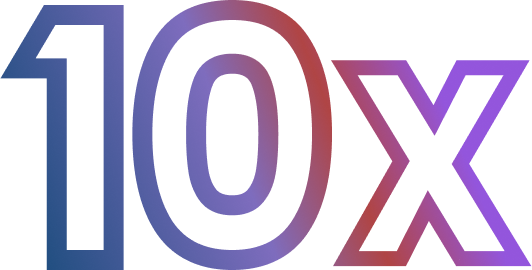
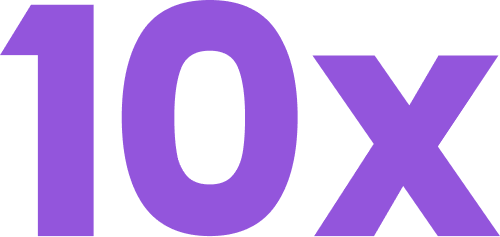
more branding

diff --git a/src/lib/components/TermsModal.svelte b/src/lib/components/TermsModal.svelte
@@ -1,0 +1,120 @@
+<script lang="ts">
+	import { onMount, getContext } from 'svelte';
+	import { Confetti } from 'svelte-confetti';
+
+	import { WEBUI_NAME, config, settings } from '$lib/stores';
+
+	import { WEBUI_VERSION } from '$lib/constants';
+	import { getChangelog } from '$lib/apis';
+
+	import Modal from './common/Modal.svelte';
+	import { updateUserSettings } from '$lib/apis/users';
+
+	const i18n = getContext('i18n');
+
+	export let show = false;
+
+	let changelog = null;
+
+	onMount(async () => {
+		const res = await getChangelog();
+		changelog = res;
+	});
+</script>
+
+<Modal bind:show>
+	<div class="px-5 pt-4 dark:text-gray-300 text-gray-700">
+		<div class="flex justify-between items-start">
+			<div class="text-xl font-semibold">
+				{$i18n.t('What’s New in')}
+				{$WEBUI_NAME}
+				<Confetti x={[-1, -0.25]} y={[0, 0.5]} />
+			</div>
+			<button
+				class="self-center"
+				on:click={() => {
+					localStorage.version = $config.version;
+					show = false;
+				}}
+			>
+				<svg
+					xmlns="http://www.w3.org/2000/svg"
+					viewBox="0 0 20 20"
+					fill="currentColor"
+					class="w-5 h-5"
+				>
+					<path
+						d="M6.28 5.22a.75.75 0 00-1.06 1.06L8.94 10l-3.72 3.72a.75.75 0 101.06 1.06L10 11.06l3.72 3.72a.75.75 0 101.06-1.06L11.06 10l3.72-3.72a.75.75 0 00-1.06-1.06L10 8.94 6.28 5.22z"
+					/>
+				</svg>
+			</button>
+		</div>
+		<div class="flex items-center mt-1">
+			<div class="text-sm dark:text-gray-200">{$i18n.t('Release Notes')}</div>
+			<div class="flex self-center w-[1px] h-6 mx-2.5 bg-gray-200 dark:bg-gray-700" />
+			<div class="text-sm dark:text-gray-200">
+				v{WEBUI_VERSION}
+			</div>
+		</div>
+	</div>
+
+	<div class=" w-full p-4 px-5 text-gray-700 dark:text-gray-100">
+		<div class=" overflow-y-scroll max-h-80 scrollbar-hidden">
+			<div class="mb-3">
+				{#if changelog}
+					{#each Object.keys(changelog) as version}
+						<div class=" mb-3 pr-2">
+							<div class="font-semibold text-xl mb-1 dark:text-white">
+								v{version} - {changelog[version].date}
+							</div>
+
+							<hr class=" dark:border-gray-800 my-2" />
+
+							{#each Object.keys(changelog[version]).filter((section) => section !== 'date') as section}
+								<div class="">
+									<div
+										class="font-semibold uppercase text-xs {section === 'added'
+											? 'text-white bg-blue-600'
+											: section === 'fixed'
+												? 'text-white bg-green-600'
+												: section === 'changed'
+													? 'text-white bg-yellow-600'
+													: section === 'removed'
+														? 'text-white bg-red-600'
+														: ''}  w-fit px-3 rounded-full my-2.5"
+									>
+										{section}
+									</div>
+
+									<div class="my-2.5 px-1.5">
+										{#each Object.keys(changelog[version][section]) as item}
+											<div class="text-sm mb-2">
+												<div class="font-semibold uppercase">
+													{changelog[version][section][item].title}
+												</div>
+												<div class="mb-2 mt-1">{changelog[version][section][item].content}</div>
+											</div>
+										{/each}
+									</div>
+								</div>
+							{/each}
+						</div>
+					{/each}
+				{/if}
+			</div>
+		</div>
+		<div class="flex justify-end pt-3 text-sm font-medium">
+			<button
+				on:click={async () => {
+					localStorage.version = $config.version;
+					await settings.set({ ...$settings, ...{ version: $config.version } });
+					await updateUserSettings(localStorage.token, { ui: $settings });
+					show = false;
+				}}
+				class=" px-4 py-2 bg-emerald-700 hover:bg-emerald-800 text-gray-100 transition rounded-lg"
+			>
+				<span class="relative">{$i18n.t("Okay, Let's Go!")}</span>
+			</button>
+		</div>
+	</div>
+</Modal>

diff --git a/src/lib/components/layout/Help.svelte b/src/lib/components/layout/Help.svelte
@@ -10,31 +10,43 @@
 	let showShortcuts = false;
 </script>
 
-<div class=" hidden lg:flex fixed bottom-0 right-0 px-2 py-2 z-20">
-	<button
-		id="show-shortcuts-button"
-		class="hidden"
-		on:click={() => {
-			showShortcuts = !showShortcuts;
-		}}
-	/>
-
-	<HelpMenu
-		showDocsHandler={() => {
-			showShortcuts = !showShortcuts;
-		}}
-		showShortcutsHandler={() => {
-			showShortcuts = !showShortcuts;
-		}}
-	>
-		<Tooltip content={$i18n.t('Help')} placement="left">
-			<button
-				class="text-gray-600 dark:text-gray-300 bg-gray-300/20 size-5 flex items-center justify-center text-[0.7rem] rounded-full"
+<div
+	id="footer"
+	class="fixed bottom-1.5 right-0 px-2 pt-2 z-20 flex lg:flex-row flex-col items-end"
+>
+	<div id="by-10x" class="lg:flex text-xs text-white-500">
+		<a href="https://10x.gsa.gov" target="_blank" class="flex items-center">
+			<span class="hidden lg:flex">Powered</span>&nbsp;
+			<span class="lg:flex">by</span><span class="text-violet-600 lg:flex font-extrabold ms-1"
+				>10x</span
 			>
-				?
-			</button>
-		</Tooltip>
-	</HelpMenu>
-</div>
+		</a>
+	</div>
+	<div id="help" class="hidden lg:flex ml-3">
+		<button
+			id="show-shortcuts-button"
+			class="hidden"
+			on:click={() => {
+				showShortcuts = !showShortcuts;
+			}}
+		/>
 
+		<HelpMenu
+			showDocsHandler={() => {
+				showShortcuts = !showShortcuts;
+			}}
+			showShortcutsHandler={() => {
+				showShortcuts = !showShortcuts;
+			}}
+		>
+			<Tooltip content={$i18n.t('Help')} placement="left">
+				<button
+					class="text-gray-600 dark:text-gray-300 bg-gray-300/20 size-5 flex items-center justify-center text-[0.7rem] rounded-full"
+				>
+					?
+				</button>
+			</Tooltip>
+		</HelpMenu>
+	</div>
+</div>
 <ShortcutsModal bind:show={showShortcuts} />

diff --git a/src/routes/auth/+page.svelte b/src/routes/auth/+page.svelte
@@ -164,17 +164,6 @@
 									{$i18n.t(`Sign up to {{WEBUI_NAME}}`, { WEBUI_NAME: $WEBUI_NAME })}
 								{/if}
 							</div>
-							<div class=" mt-4 text-sm text-center">
-								powered by
-								<img
-									crossorigin="anonymous"
-									src="{WEBUI_BASE_URL}/static/10x_ai.png"
-									class=" w-7 inline-block"
-									style="vertical-align: baseline;"
-									alt="10x logo"
-								/>
-							</div>
-
 							<!-- {#if mode === 'signup'}
 								<div class=" mt-1 text-xs font-medium text-gray-500">
 									ⓘ {$WEBUI_NAME}
@@ -266,7 +255,7 @@
 
 					{#if Object.keys($config?.oauth?.providers ?? {}).length > 0}
 						<div class="inline-flex items-center justify-center w-full">
-							<hr class="w-64 h-px my-8 bg-gray-200 border-0 dark:bg-gray-700" />
+							<hr class="w-32 h-px my-8 bg-gray-200 border-0 dark:bg-gray-700" />
 							{#if $config?.features.enable_login_form}
 								<span
 									class="absolute px-3 font-medium text-gray-900 -translate-x-1/2 bg-white left-1/2 dark:text-white dark:bg-gray-950"
@@ -355,6 +344,21 @@
 								</button>
 							{/if}
 						</div>
+						<div class="inline-flex items-center justify-center w-full">
+							<hr class="w-32 h-px my-8 bg-gray-200 border-0 dark:bg-gray-700" />
+						</div>
+						<a href="https://10x.gsa.gov" target="_blank" rel="noopener noreferrer">
+							<div class=" text-sm text-center">
+								powered by
+								<img
+									crossorigin="anonymous"
+									src="{WEBUI_BASE_URL}/static/10x_ai.png"
+									class=" w-7 inline-block"
+									style="vertical-align: baseline;"
+									alt="10x logo"
+								/>
+							</div>
+						</a>
 					{/if}
 				</div>
 			{/if}

diff --git a/src/routes/(app)/+layout.svelte b/src/routes/(app)/+layout.svelte
@@ -40,7 +40,8 @@
 
 	import Sidebar from '$lib/components/layout/Sidebar.svelte';
 	import SettingsModal from '$lib/components/chat/SettingsModal.svelte';
-	import ChangelogModal from '$lib/components/ChangelogModal.svelte';
+	//import ChangelogModal from '$lib/components/ChangelogModal.svelte';
+	import TermsModal from '$lib/components/TermsModal.svelte';
 	import AccountPending from '$lib/components/layout/Overlay/AccountPending.svelte';
 	import UpdateInfoToast from '$lib/components/layout/UpdateInfoToast.svelte';
 
@@ -229,7 +230,8 @@
 </script>
 
 <SettingsModal bind:show={$showSettings} />
-<ChangelogModal bind:show={$showChangelog} />
+<!--<ChangelogModal bind:show={$showChangelog} />-->
+<TermsModal bind:show={$showChangelog} />
 
 {#if version && compareVersion(version.latest, version.current) && ($settings?.showUpdateToast ?? true)}
 	<div class=" absolute bottom-8 right-8 z-50" in:fade={{ duration: 100 }}>

diff --git a/src/lib/components/chat/Chat.svelte b/src/lib/components/chat/Chat.svelte
@@ -2279,7 +2279,7 @@
 							/>
 
 							<div
-								class="absolute bottom-1.5 text-xs text-gray-500 text-center line-clamp-1 right-0 left-0"
+								class="absolute bottom-1.5 text-xs text-gray-500 text-center line-clamp-1 right-14 left-3"
 							>
 								{$i18n.t('LLMs can make mistakes. Verify important information.')}
 							</div>
